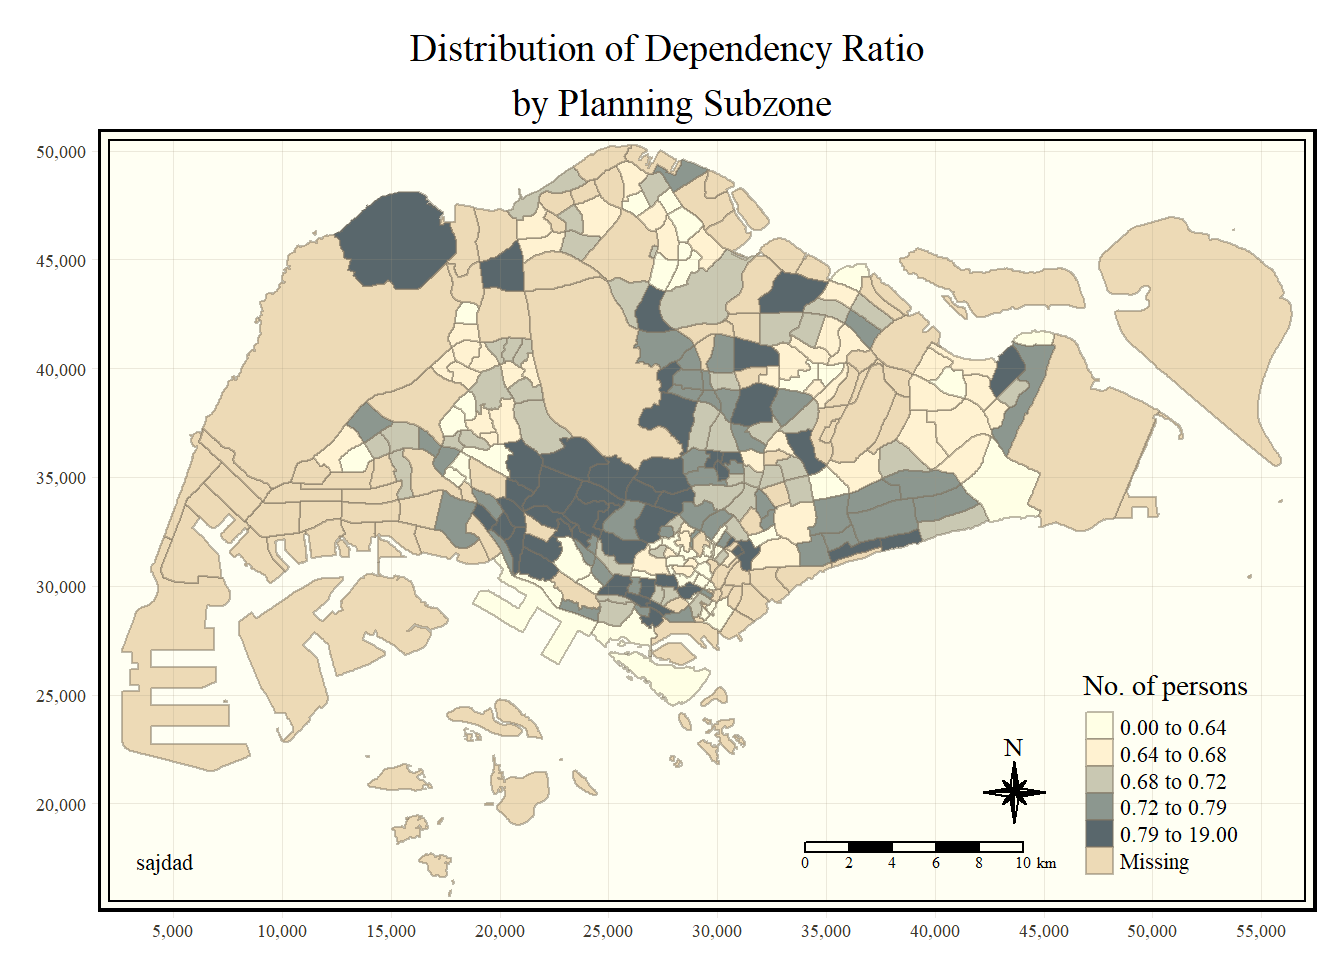
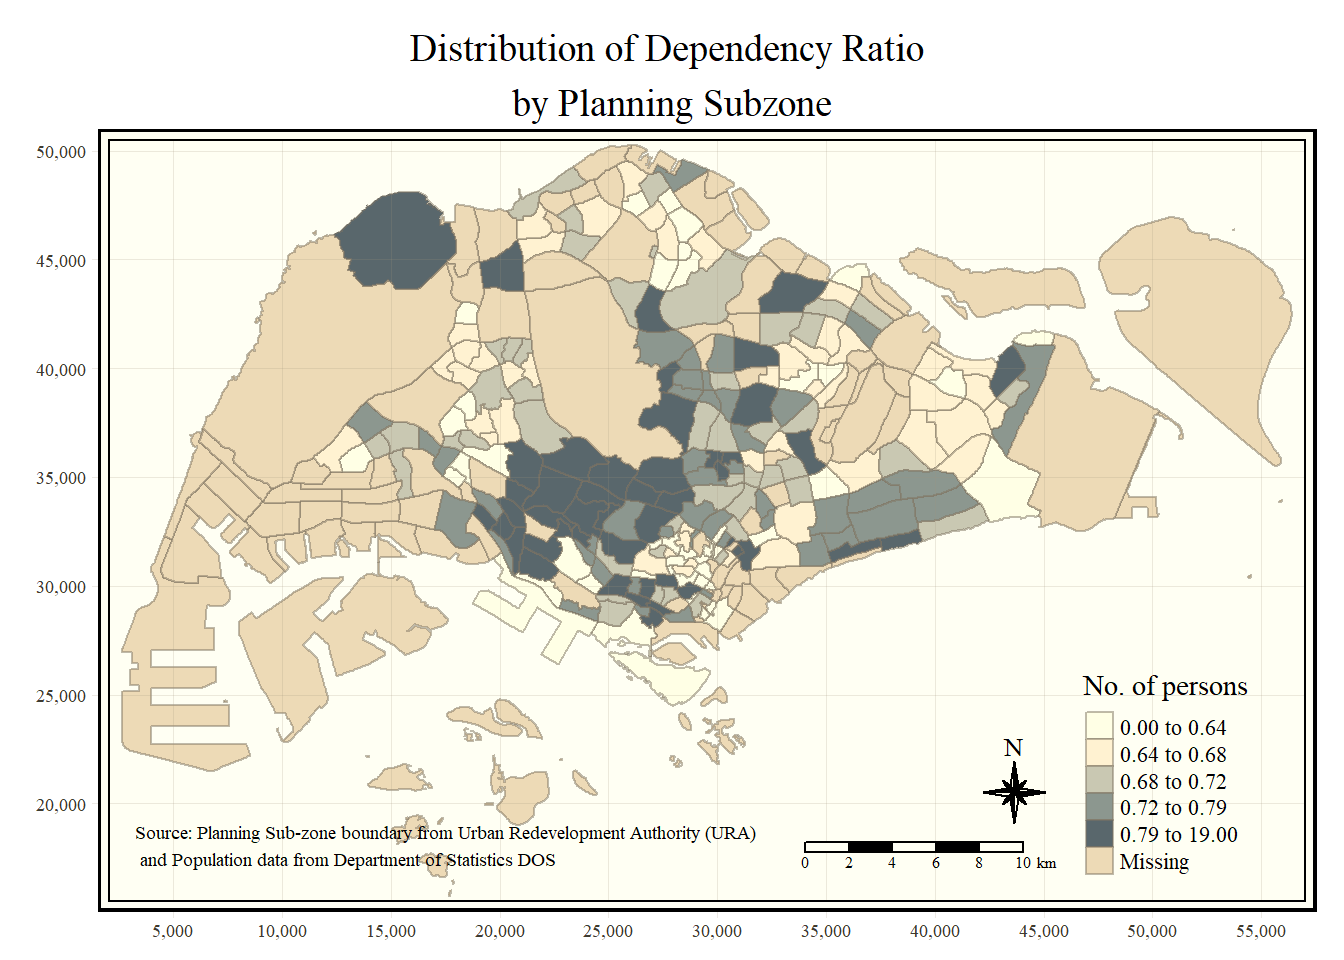
formatting

Changed region(s): [[0.0938, 0.8438, 0.5625, 0.9062]]

diff --git a/_site/HOE/ex2/ex2.html b/_site/HOE/ex2/ex2.html
@@ -195,8 +195,12 @@ pre > code.sourceCode > span > a:first-child::before { text-decoration: underlin
     <h2 id="toc-title">On this page</h2>
    
   <ul>
-  <li><a href="#download-and-import-data" id="toc-download-and-import-data" class="nav-link active" data-scroll-target="#download-and-import-data">Download and Import Data</a></li>
+  <li><a href="#thematic-mapping-and-geovisualisation-with-r" id="toc-thematic-mapping-and-geovisualisation-with-r" class="nav-link active" data-scroll-target="#thematic-mapping-and-geovisualisation-with-r">Thematic Mapping and GeoVisualisation with R</a>
+  <ul class="collapse">
+  <li><a href="#installlaunch-r-packages" id="toc-installlaunch-r-packages" class="nav-link" data-scroll-target="#installlaunch-r-packages">Install/Launch R Packages</a></li>
+  <li><a href="#download-and-import-data" id="toc-download-and-import-data" class="nav-link" data-scroll-target="#download-and-import-data">Download and Import Data</a></li>
   <li><a href="#choropleth-mapping-geospatial-data-using-tmap" id="toc-choropleth-mapping-geospatial-data-using-tmap" class="nav-link" data-scroll-target="#choropleth-mapping-geospatial-data-using-tmap">Choropleth Mapping Geospatial Data using <em>tmap</em></a></li>
+  </ul></li>
   </ul>
 </nav>
     </div>
@@ -234,15 +238,18 @@ pre > code.sourceCode > span > a:first-child::before { text-decoration: underlin
 </header>
 
 
-<p>Thematic Mapping and GeoVisualisation with R</p>
-<p>Overview</p>
-<p>Thematic mapping invovles the use of map symbols to visualise properties of geogrpahic features that are not naturally visible, a few examples being population, temperature, and crime rate.</p>
+<section id="thematic-mapping-and-geovisualisation-with-r" class="level1">
+<h1>Thematic Mapping and GeoVisualisation with R</h1>
+<p><strong>Overview</strong></p>
+<p>Thematic mapping involves the use of map symbols to visualise properties of geographic features that are not naturally visible, a few examples being population, temperature, and crime rate.</p>
 <p>On the other hand, geovisualisation works by providing graphical ideation to render a place, phenomenon, or process visible, allowing us to utilise our vision to process information.</p>
-<p>Getting Started ## <strong>Install/Launch R Packages</strong></p>
+<section id="installlaunch-r-packages" class="level2">
+<h2 class="anchored" data-anchor-id="installlaunch-r-packages">Install/Launch R Packages</h2>
 <p>This exercise uses the R packages <em>tmap</em>, <em>sf</em> and <em>tidyverse</em>.</p>
 <div class="cell">
 <div class="sourceCode cell-code" id="cb1"><pre class="sourceCode r code-with-copy"><code class="sourceCode r"><span id="cb1-1"><a href="#cb1-1" aria-hidden="true" tabindex="-1"></a>pacman<span class="sc">::</span><span class="fu">p_load</span>(sf,tmap,tidyverse)</span></code><button title="Copy to Clipboard" class="code-copy-button"><i class="bi"></i></button></pre></div>
 </div>
+</section>
 <section id="download-and-import-data" class="level2">
 <h2 class="anchored" data-anchor-id="download-and-import-data">Download and Import Data</h2>
 <p>Download the following:</p>
@@ -590,7 +597,7 @@ dbl (2): Pop, Time
 </div>
 <p>tmap also provides arguments to draw map features such as compass, scale bar, and grid lines.</p>
 <div class="cell">
-<div class="sourceCode cell-code" id="cb37"><pre class="sourceCode r code-with-copy"><code class="sourceCode r"><span id="cb37-1"><a href="#cb37-1" aria-hidden="true" tabindex="-1"></a><span class="fu">tm_shape</span>(mpsz_pop2020)<span class="sc">+</span><span class="fu">tm_fill</span>(<span class="st">"DEPENDENCY"</span>, <span class="at">style =</span> <span class="st">"quantile"</span>, <span class="at">palette =</span> <span class="st">"Blues"</span>, <span class="at">title =</span> <span class="st">"No. of persons"</span>) <span class="sc">+</span> <span class="fu">tm_layout</span>(<span class="at">main.title =</span> <span class="st">"Distribution of Dependency Ratio </span><span class="sc">\n</span><span class="st">by Planning Subzone"</span>, <span class="at">main.title.position =</span> <span class="st">"center"</span>, <span class="at">main.title.size =</span> <span class="fl">1.2</span>, <span class="at">legend.height =</span> <span class="fl">0.45</span>, <span class="at">legend.width =</span> <span class="fl">0.35</span>, <span class="at">frame =</span> <span class="cn">TRUE</span>) <span class="sc">+</span> <span class="fu">tm_borders</span>(<span class="at">alpha =</span> <span class="fl">0.5</span>) <span class="sc">+</span> <span class="fu">tm_compass</span>(<span class="at">type=</span><span class="st">"8star"</span>, <span class="at">size =</span> <span class="dv">2</span>) <span class="sc">+</span> <span class="fu">tm_scale_bar</span>(<span class="at">width =</span> <span class="fl">0.15</span>) <span class="sc">+</span> <span class="fu">tm_grid</span>(<span class="at">lwd =</span> <span class="fl">0.1</span>, <span class="at">alpha =</span> <span class="fl">0.2</span>) <span class="sc">+</span> <span class="fu">tm_credits</span>(<span class="st">"sajdad"</span>, <span class="at">position =</span> <span class="fu">c</span>(<span class="st">"left"</span>, <span class="st">"bottom"</span>))</span></code><button title="Copy to Clipboard" class="code-copy-button"><i class="bi"></i></button></pre></div>
+<div class="sourceCode cell-code" id="cb37"><pre class="sourceCode r code-with-copy"><code class="sourceCode r"><span id="cb37-1"><a href="#cb37-1" aria-hidden="true" tabindex="-1"></a><span class="fu">tm_shape</span>(mpsz_pop2020)<span class="sc">+</span><span class="fu">tm_fill</span>(<span class="st">"DEPENDENCY"</span>, <span class="at">style =</span> <span class="st">"quantile"</span>, <span class="at">palette =</span> <span class="st">"Blues"</span>, <span class="at">title =</span> <span class="st">"No. of persons"</span>) <span class="sc">+</span> <span class="fu">tm_layout</span>(<span class="at">main.title =</span> <span class="st">"Distribution of Dependency Ratio </span><span class="sc">\n</span><span class="st">by Planning Subzone"</span>, <span class="at">main.title.position =</span> <span class="st">"center"</span>, <span class="at">main.title.size =</span> <span class="fl">1.2</span>, <span class="at">legend.height =</span> <span class="fl">0.45</span>, <span class="at">legend.width =</span> <span class="fl">0.35</span>, <span class="at">frame =</span> <span class="cn">TRUE</span>) <span class="sc">+</span> <span class="fu">tm_borders</span>(<span class="at">alpha =</span> <span class="fl">0.5</span>) <span class="sc">+</span> <span class="fu">tm_compass</span>(<span class="at">type=</span><span class="st">"8star"</span>, <span class="at">size =</span> <span class="dv">2</span>) <span class="sc">+</span> <span class="fu">tm_scale_bar</span>(<span class="at">width =</span> <span class="fl">0.15</span>) <span class="sc">+</span> <span class="fu">tm_grid</span>(<span class="at">lwd =</span> <span class="fl">0.1</span>, <span class="at">alpha =</span> <span class="fl">0.2</span>) <span class="sc">+</span> <span class="fu">tm_credits</span>(<span class="st">"Source: Planning Sub-zone boundary from Urban Redevelopment Authority (URA)</span><span class="sc">\n</span><span class="st"> and Population data from Department of Statistics DOS"</span>, <span class="at">position =</span> <span class="fu">c</span>(<span class="st">"left"</span>, <span class="st">"bottom"</span>))</span></code><button title="Copy to Clipboard" class="code-copy-button"><i class="bi"></i></button></pre></div>
 <div class="cell-output-display">
 <div>
 <figure class="figure">
@@ -618,13 +625,7 @@ dbl (2): Pop, Time
 </ol>
 <p>The code below creates facet maps by defining <em>ncols</em> in tm_fill():</p>
 <div class="cell">
-<div class="sourceCode cell-code" id="cb41"><pre class="sourceCode r code-with-copy"><code class="sourceCode r"><span id="cb41-1"><a href="#cb41-1" aria-hidden="true" tabindex="-1"></a><span class="fu">tm_shape</span>(mpsz_pop2020) <span class="sc">+</span> <span class="fu">tm_fill</span>(<span class="fu">c</span>(<span class="st">"YOUNG"</span>, <span class="st">"AGED"</span>), <span class="at">style =</span> <span class="st">"equal"</span>, <span class="at">palette =</span> <span class="st">"Blues"</span>) <span class="sc">+</span> <span class="fu">tm_layout</span>(<span class="at">legend.position =</span> <span class="fu">c</span>(<span class="st">"right"</span>, <span class="st">"bottom"</span>)) <span class="sc">+</span> <span class="fu">tm_borders</span>(<span class="at">alpha =</span> <span class="fl">0.5</span>) <span class="sc">+</span> <span class="fu">tmap_style</span>(<span class="st">"white"</span>)</span></code><button title="Copy to Clipboard" class="code-copy-button"><i class="bi"></i></button></pre></div>
-<div class="cell-output cell-output-stderr">
-<pre><code>tmap style set to "white"</code></pre>
-</div>
-<div class="cell-output cell-output-stderr">
-<pre><code>other available styles are: "gray", "natural", "cobalt", "col_blind", "albatross", "beaver", "bw", "classic", "watercolor" </code></pre>
-</div>
+<div class="sourceCode cell-code" id="cb41"><pre class="sourceCode r code-with-copy"><code class="sourceCode r"><span id="cb41-1"><a href="#cb41-1" aria-hidden="true" tabindex="-1"></a><span class="fu">tm_shape</span>(mpsz_pop2020) <span class="sc">+</span> <span class="fu">tm_fill</span>(<span class="fu">c</span>(<span class="st">"YOUNG"</span>, <span class="st">"AGED"</span>), <span class="at">style =</span> <span class="st">"equal"</span>, <span class="at">palette =</span> <span class="st">"Blues"</span>) <span class="sc">+</span> <span class="fu">tm_layout</span>(<span class="at">legend.position =</span> <span class="fu">c</span>(<span class="st">"right"</span>, <span class="st">"bottom"</span>)) <span class="sc">+</span> <span class="fu">tm_borders</span>(<span class="at">alpha =</span> <span class="fl">0.5</span>)</span></code><button title="Copy to Clipboard" class="code-copy-button"><i class="bi"></i></button></pre></div>
 <div class="cell-output-display">
 <div>
 <figure class="figure">
@@ -635,7 +636,7 @@ dbl (2): Pop, Time
 </div>
 <p>The code below creates facet maps by assigning multiple value to at least one of the aesthetic arguments:</p>
 <div class="cell">
-<div class="sourceCode cell-code" id="cb44"><pre class="sourceCode r code-with-copy"><code class="sourceCode r"><span id="cb44-1"><a href="#cb44-1" aria-hidden="true" tabindex="-1"></a><span class="fu">tm_shape</span>(mpsz_pop2020) <span class="sc">+</span> <span class="fu">tm_polygons</span>(<span class="fu">c</span>(<span class="st">"DEPENDENCY"</span>, <span class="st">"AGED"</span>), <span class="at">style =</span> <span class="fu">c</span>(<span class="st">"equal"</span>, <span class="st">"quantile"</span>), <span class="at">palette =</span> <span class="fu">list</span>(<span class="st">"Blues"</span>, <span class="st">"Greens"</span>)) <span class="sc">+</span> <span class="fu">tm_layout</span>(<span class="at">legend.position =</span>  <span class="fu">c</span>(<span class="st">"right"</span>, <span class="st">"bottom"</span>))</span></code><button title="Copy to Clipboard" class="code-copy-button"><i class="bi"></i></button></pre></div>
+<div class="sourceCode cell-code" id="cb42"><pre class="sourceCode r code-with-copy"><code class="sourceCode r"><span id="cb42-1"><a href="#cb42-1" aria-hidden="true" tabindex="-1"></a><span class="fu">tm_shape</span>(mpsz_pop2020) <span class="sc">+</span> <span class="fu">tm_polygons</span>(<span class="fu">c</span>(<span class="st">"DEPENDENCY"</span>, <span class="st">"AGED"</span>), <span class="at">style =</span> <span class="fu">c</span>(<span class="st">"equal"</span>, <span class="st">"quantile"</span>), <span class="at">palette =</span> <span class="fu">list</span>(<span class="st">"Blues"</span>, <span class="st">"Greens"</span>)) <span class="sc">+</span> <span class="fu">tm_layout</span>(<span class="at">legend.position =</span>  <span class="fu">c</span>(<span class="st">"right"</span>, <span class="st">"bottom"</span>))</span></code><button title="Copy to Clipboard" class="code-copy-button"><i class="bi"></i></button></pre></div>
 <div class="cell-output-display">
 <div>
 <figure class="figure">
@@ -646,7 +647,7 @@ dbl (2): Pop, Time
 </div>
 <p>The code below creates facet maps by using tm_facets():</p>
 <div class="cell">
-<div class="sourceCode cell-code" id="cb45"><pre class="sourceCode r code-with-copy"><code class="sourceCode r"><span id="cb45-1"><a href="#cb45-1" aria-hidden="true" tabindex="-1"></a><span class="fu">tm_shape</span>(mpsz_pop2020) <span class="sc">+</span>  <span class="fu">tm_fill</span>(<span class="st">"DEPENDENCY"</span>, <span class="at">style =</span> <span class="st">"quantile"</span>, <span class="at">palette =</span>  <span class="st">"Blues"</span>, <span class="at">thres.poly =</span> <span class="dv">0</span>) <span class="sc">+</span> <span class="fu">tm_facets</span>(<span class="at">by=</span><span class="st">"REGION_N"</span>, <span class="at">free.coords =</span> <span class="cn">TRUE</span>, <span class="at">drop.units =</span> <span class="cn">TRUE</span>) <span class="sc">+</span> <span class="fu">tm_layout</span>(<span class="at">legend.show =</span> <span class="cn">FALSE</span>, <span class="at">title.position =</span> <span class="fu">c</span>(<span class="st">"center"</span>, <span class="st">"center"</span>), <span class="at">title.size =</span> <span class="dv">20</span>) <span class="sc">+</span> <span class="fu">tm_borders</span>(<span class="at">alpha =</span> <span class="fl">0.5</span>)</span></code><button title="Copy to Clipboard" class="code-copy-button"><i class="bi"></i></button></pre></div>
+<div class="sourceCode cell-code" id="cb43"><pre class="sourceCode r code-with-copy"><code class="sourceCode r"><span id="cb43-1"><a href="#cb43-1" aria-hidden="true" tabindex="-1"></a><span class="fu">tm_shape</span>(mpsz_pop2020) <span class="sc">+</span>  <span class="fu">tm_fill</span>(<span class="st">"DEPENDENCY"</span>, <span class="at">style =</span> <span class="st">"quantile"</span>, <span class="at">palette =</span>  <span class="st">"Blues"</span>, <span class="at">thres.poly =</span> <span class="dv">0</span>) <span class="sc">+</span> <span class="fu">tm_facets</span>(<span class="at">by=</span><span class="st">"REGION_N"</span>, <span class="at">free.coords =</span> <span class="cn">TRUE</span>, <span class="at">drop.units =</span> <span class="cn">TRUE</span>) <span class="sc">+</span> <span class="fu">tm_layout</span>(<span class="at">legend.show =</span> <span class="cn">FALSE</span>, <span class="at">title.position =</span> <span class="fu">c</span>(<span class="st">"center"</span>, <span class="st">"center"</span>), <span class="at">title.size =</span> <span class="dv">20</span>) <span class="sc">+</span> <span class="fu">tm_borders</span>(<span class="at">alpha =</span> <span class="fl">0.5</span>)</span></code><button title="Copy to Clipboard" class="code-copy-button"><i class="bi"></i></button></pre></div>
 <div class="cell-output-display">
 <div>
 <figure class="figure">
@@ -657,10 +658,10 @@ dbl (2): Pop, Time
 </div>
 <p>The code below creates facet maps by using tm_arrange():</p>
 <div class="cell">
-<div class="sourceCode cell-code" id="cb46"><pre class="sourceCode r code-with-copy"><code class="sourceCode r"><span id="cb46-1"><a href="#cb46-1" aria-hidden="true" tabindex="-1"></a>youngmap <span class="ot">&lt;-</span> <span class="fu">tm_shape</span>(mpsz_pop2020) <span class="sc">+</span> <span class="fu">tm_polygons</span> (<span class="st">"YOUNG"</span>, <span class="at">style =</span> <span class="st">"quantile"</span>, <span class="at">palette =</span> <span class="st">"Blues"</span>)</span>
-<span id="cb46-2"><a href="#cb46-2" aria-hidden="true" tabindex="-1"></a>agedmap <span class="ot">&lt;-</span> <span class="fu">tm_shape</span>(mpsz_pop2020) <span class="sc">+</span> <span class="fu">tm_polygons</span> (<span class="st">"AGED"</span>, <span class="at">style =</span> <span class="st">"quantile"</span>, <span class="at">palette =</span> <span class="st">"Blues"</span>)</span>
-<span id="cb46-3"><a href="#cb46-3" aria-hidden="true" tabindex="-1"></a></span>
-<span id="cb46-4"><a href="#cb46-4" aria-hidden="true" tabindex="-1"></a><span class="fu">tmap_arrange</span>(youngmap, agedmap, <span class="at">asp=</span><span class="dv">1</span>, <span class="at">ncol=</span><span class="dv">2</span>)</span></code><button title="Copy to Clipboard" class="code-copy-button"><i class="bi"></i></button></pre></div>
+<div class="sourceCode cell-code" id="cb44"><pre class="sourceCode r code-with-copy"><code class="sourceCode r"><span id="cb44-1"><a href="#cb44-1" aria-hidden="true" tabindex="-1"></a>youngmap <span class="ot">&lt;-</span> <span class="fu">tm_shape</span>(mpsz_pop2020) <span class="sc">+</span> <span class="fu">tm_polygons</span> (<span class="st">"YOUNG"</span>, <span class="at">style =</span> <span class="st">"quantile"</span>, <span class="at">palette =</span> <span class="st">"Blues"</span>)</span>
+<span id="cb44-2"><a href="#cb44-2" aria-hidden="true" tabindex="-1"></a>agedmap <span class="ot">&lt;-</span> <span class="fu">tm_shape</span>(mpsz_pop2020) <span class="sc">+</span> <span class="fu">tm_polygons</span> (<span class="st">"AGED"</span>, <span class="at">style =</span> <span class="st">"quantile"</span>, <span class="at">palette =</span> <span class="st">"Blues"</span>)</span>
+<span id="cb44-3"><a href="#cb44-3" aria-hidden="true" tabindex="-1"></a></span>
+<span id="cb44-4"><a href="#cb44-4" aria-hidden="true" tabindex="-1"></a><span class="fu">tmap_arrange</span>(youngmap, agedmap, <span class="at">asp=</span><span class="dv">1</span>, <span class="at">ncol=</span><span class="dv">2</span>)</span></code><button title="Copy to Clipboard" class="code-copy-button"><i class="bi"></i></button></pre></div>
 <div class="cell-output-display">
 <div>
 <figure class="figure">
@@ -671,7 +672,7 @@ dbl (2): Pop, Time
 </div>
 <p>Instead of creating a facet map, the selection function can be used to map spatial objects meeting the selection criterion.</p>
 <div class="cell">
-<div class="sourceCode cell-code" id="cb47"><pre class="sourceCode r code-with-copy"><code class="sourceCode r"><span id="cb47-1"><a href="#cb47-1" aria-hidden="true" tabindex="-1"></a><span class="fu">tm_shape</span>(mpsz_pop2020[mpsz_pop2020<span class="sc">$</span>REGION_N<span class="sc">==</span><span class="st">"CENTRAL REGION"</span>, ]) <span class="sc">+</span> <span class="fu">tm_fill</span>(<span class="st">"DEPENDENCY"</span>, <span class="at">style =</span> <span class="st">"quantile"</span>, <span class="at">palette =</span> <span class="st">"Blues"</span>, <span class="at">legend.hist =</span> <span class="cn">TRUE</span>, <span class="at">legend.is.portrait =</span> <span class="cn">TRUE</span>, <span class="at">legend.hist.z =</span> <span class="fl">0.1</span>) <span class="sc">+</span> <span class="fu">tm_layout</span>(<span class="at">legend.outside =</span> <span class="cn">FALSE</span>, <span class="at">legend.height =</span> <span class="fl">0.45</span>, <span class="at">legend.width =</span> <span class="fl">5.0</span>, <span class="at">legend.position =</span> <span class="fu">c</span>(<span class="st">"right"</span>, <span class="st">"bottom"</span>), <span class="at">frame =</span> <span class="cn">FALSE</span>) <span class="sc">+</span> <span class="fu">tm_borders</span>(<span class="at">alpha =</span> <span class="fl">0.5</span>)</span></code><button title="Copy to Clipboard" class="code-copy-button"><i class="bi"></i></button></pre></div>
+<div class="sourceCode cell-code" id="cb45"><pre class="sourceCode r code-with-copy"><code class="sourceCode r"><span id="cb45-1"><a href="#cb45-1" aria-hidden="true" tabindex="-1"></a><span class="fu">tm_shape</span>(mpsz_pop2020[mpsz_pop2020<span class="sc">$</span>REGION_N<span class="sc">==</span><span class="st">"CENTRAL REGION"</span>, ]) <span class="sc">+</span> <span class="fu">tm_fill</span>(<span class="st">"DEPENDENCY"</span>, <span class="at">style =</span> <span class="st">"quantile"</span>, <span class="at">palette =</span> <span class="st">"Blues"</span>, <span class="at">legend.hist =</span> <span class="cn">TRUE</span>, <span class="at">legend.is.portrait =</span> <span class="cn">TRUE</span>, <span class="at">legend.hist.z =</span> <span class="fl">0.1</span>) <span class="sc">+</span> <span class="fu">tm_layout</span>(<span class="at">legend.outside =</span> <span class="cn">FALSE</span>, <span class="at">legend.height =</span> <span class="fl">0.45</span>, <span class="at">legend.width =</span> <span class="fl">5.0</span>, <span class="at">legend.position =</span> <span class="fu">c</span>(<span class="st">"right"</span>, <span class="st">"bottom"</span>), <span class="at">frame =</span> <span class="cn">FALSE</span>) <span class="sc">+</span> <span class="fu">tm_borders</span>(<span class="at">alpha =</span> <span class="fl">0.5</span>)</span></code><button title="Copy to Clipboard" class="code-copy-button"><i class="bi"></i></button></pre></div>
 <div class="cell-output-display">
 <div>
 <figure class="figure">
@@ -682,6 +683,7 @@ dbl (2): Pop, Time
 </div>
 
 
+</section>
 </section>
 
 </main> <!-- /main -->

diff --git a/_site/HOE/ex1/ex1.html b/_site/HOE/ex1/ex1.html
@@ -229,7 +229,7 @@ pre > code.sourceCode > span > a:first-child::before { text-decoration: underlin
     <div>
     <div class="quarto-title-meta-heading">Modified</div>
     <div class="quarto-title-meta-contents">
-      <p class="date-modified">August 20, 2024</p>
+      <p class="date-modified">August 23, 2024</p>
     </div>
   </div>
     
